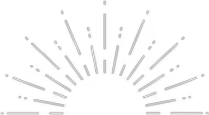
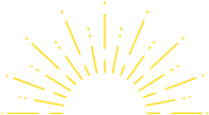
Ajuste le hero, uniformise les CTA devis, ajoute un lightbox à la carte cocktails
- Hero : "mixologie" -> "approche", icône soleil recolorée en doré (au lieu
  de blanc) pour matcher la couleur du site.
- Section "Ce que nous proposons" : nouveau texte fourni, plus détaillé sur
  le déroulement de la prestation.
- "Obtenir mon devis" -> "Demander un devis" partout (Home, About, Devis).
- PhotoCarousel : chaque photo est cliquable et ouvre un lightbox plein
  écran (navigation précédent/suivant, fermeture par croix, clic dehors ou
  touche Échap) — utilisé par les carrousels de la carte des cocktails.

diff --git a/src/components/PhotoCarousel.jsx b/src/components/PhotoCarousel.jsx
@@ -1,6 +1,7 @@
 import { useEffect, useState } from 'react'
 import Autoplay from 'embla-carousel-autoplay'
 import Fade from 'embla-carousel-fade'
+import { ChevronLeft, ChevronRight } from 'lucide-react'
 import {
   Carousel,
   CarouselContent,
@@ -8,6 +9,7 @@ import {
   CarouselPrevious,
   CarouselNext,
 } from '@/components/ui/carousel'
+import { Dialog, DialogContent } from '@/components/ui/dialog'
 import { cn } from '@/lib/utils'
 
 export function PhotoCarousel({
@@ -24,6 +26,7 @@ export function PhotoCarousel({
 }) {
   const [api, setApi] = useState(null)
   const [selected, setSelected] = useState(0)
+  const [lightboxIndex, setLightboxIndex] = useState(null)
 
   useEffect(() => {
     if (!api) return
@@ -32,6 +35,16 @@ export function PhotoCarousel({
     api.on('select', onSelect)
     return () => api.off('select', onSelect)
   }, [api])
+
+  useEffect(() => {
+    if (lightboxIndex === null || !photos) return
+    const onKeyDown = (e) => {
+      if (e.key === 'ArrowLeft') setLightboxIndex((i) => (i - 1 + photos.length) % photos.length)
+      if (e.key === 'ArrowRight') setLightboxIndex((i) => (i + 1) % photos.length)
+    }
+    window.addEventListener('keydown', onKeyDown)
+    return () => window.removeEventListener('keydown', onKeyDown)
+  }, [lightboxIndex, photos])
 
   if (!photos || photos.length === 0) return null
 
@@ -43,20 +56,27 @@ export function PhotoCarousel({
     <div className={className}>
       <Carousel opts={{ loop: true, align: 'start' }} plugins={plugins} setApi={setApi}>
         <CarouselContent className={cn(fade ? 'ml-0' : gap.replace('gap-', '-ml-'))}>
-          {photos.map((photo) => (
+          {photos.map((photo, index) => (
             <CarouselItem
               key={photo.id}
               className={cn(fade ? 'pl-0' : gap.replace('gap-', 'pl-'), itemBasis)}
             >
-              <img
-                src={photo.url}
-                alt={photo.alt}
-                className={cn(
-                  'w-full rounded-xl',
-                  fit === 'contain' ? 'bg-black object-contain' : 'object-cover',
-                  aspect
-                )}
-              />
+              <button
+                type="button"
+                onClick={() => setLightboxIndex(index)}
+                aria-label="Agrandir la photo"
+                className="block w-full cursor-zoom-in"
+              >
+                <img
+                  src={photo.url}
+                  alt={photo.alt}
+                  className={cn(
+                    'w-full rounded-xl',
+                    fit === 'contain' ? 'bg-black object-contain' : 'object-cover',
+                    aspect
+                  )}
+                />
+              </button>
             </CarouselItem>
           ))}
         </CarouselContent>
@@ -84,6 +104,48 @@ export function PhotoCarousel({
           ))}
         </div>
       )}
+
+      <Dialog
+        open={lightboxIndex !== null}
+        onOpenChange={(open) => !open && setLightboxIndex(null)}
+      >
+        <DialogContent
+          showCloseButton
+          className="max-w-[95vw] border-none bg-transparent p-0 shadow-none sm:max-w-[90vw]"
+        >
+          {lightboxIndex !== null && (
+            <div className="relative flex items-center justify-center">
+              <img
+                src={photos[lightboxIndex].url}
+                alt={photos[lightboxIndex].alt}
+                className="max-h-[85vh] w-auto rounded-lg object-contain"
+              />
+              {photos.length > 1 && (
+                <>
+                  <button
+                    type="button"
+                    onClick={() =>
+                      setLightboxIndex((i) => (i - 1 + photos.length) % photos.length)
+                    }
+                    aria-label="Photo précédente"
+                    className="absolute left-2 top-1/2 flex size-10 -translate-y-1/2 items-center justify-center rounded-full border border-white/20 bg-black/50 text-white hover:bg-black/70"
+                  >
+                    <ChevronLeft className="size-5" />
+                  </button>
+                  <button
+                    type="button"
+                    onClick={() => setLightboxIndex((i) => (i + 1) % photos.length)}
+                    aria-label="Photo suivante"
+                    className="absolute right-2 top-1/2 flex size-10 -translate-y-1/2 items-center justify-center rounded-full border border-white/20 bg-black/50 text-white hover:bg-black/70"
+                  >
+                    <ChevronRight className="size-5" />
+                  </button>
+                </>
+              )}
+            </div>
+          )}
+        </DialogContent>
+      </Dialog>
     </div>
   )
 }

diff --git a/src/pages/Home.jsx b/src/pages/Home.jsx
@@ -85,7 +85,7 @@ export function Home() {
           </h1>
           <p className="mx-auto mt-6 max-w-2xl text-base text-white/70 sm:text-lg">
             Créez une expérience unique pour vos évènements privés et professionnels avec
-            une mixologie élégante et festive.
+            une approche élégante et festive.
           </p>
           <div className="mt-10 flex flex-col items-center justify-center gap-4 sm:flex-row">
             <Button
@@ -94,7 +94,7 @@ export function Home() {
               size="lg"
               className="bg-gold text-black hover:bg-gold/90"
             >
-              Obtenir mon devis
+              Demander un devis
               <ArrowRight className="size-4" />
             </Button>
             <Button
@@ -144,8 +144,15 @@ export function Home() {
             Ce que nous proposons
           </p>
           <h2 className="mt-4 text-center font-heading text-3xl font-semibold sm:text-4xl">
-            Une prestation pensée pour chaque occasion
+            Une prestation clé en main, partout où vous en avez besoin
           </h2>
+          <p className="mx-auto mt-4 max-w-2xl text-center text-white/65">
+            Shake &amp; Vibe se déplace directement sur le lieu de votre évènement avec tout
+            le nécessaire&nbsp;: bar mobile, matériel professionnel, verrerie, ingrédients,
+            carte cocktails personnalisée. Nous prenons en charge votre espace bar de A à Z
+            pour vous offrir une prestation entièrement autonome et adaptée à votre
+            évènement.
+          </p>
 
           <div className="mt-12 grid gap-6 sm:grid-cols-2 lg:grid-cols-4">
             {services.map(({ id, titre, description }) => {
@@ -182,7 +189,7 @@ export function Home() {
               size="lg"
               className="bg-gold text-black hover:bg-gold/90"
             >
-              Obtenir mon devis
+              Demander un devis
               <ArrowRight className="size-4" />
             </Button>
             <Button

diff --git a/src/pages/Devis.jsx b/src/pages/Devis.jsx
@@ -410,7 +410,7 @@ export function Devis() {
           className="w-full bg-gold text-black hover:bg-gold/90 sm:w-auto"
         >
           {isSubmitting && <Loader2 className="size-4 animate-spin" />}
-          Obtenir mon devis
+          Demander un devis
         </Button>
       </form>
     </div>

diff --git a/src/pages/About.jsx b/src/pages/About.jsx
@@ -128,7 +128,7 @@ export function About() {
             size="lg"
             className="mt-8 bg-gold text-black hover:bg-gold/90"
           >
-            Obtenir mon devis
+            Demander un devis
             <ArrowRight className="size-4" />
           </Button>
         </div>
